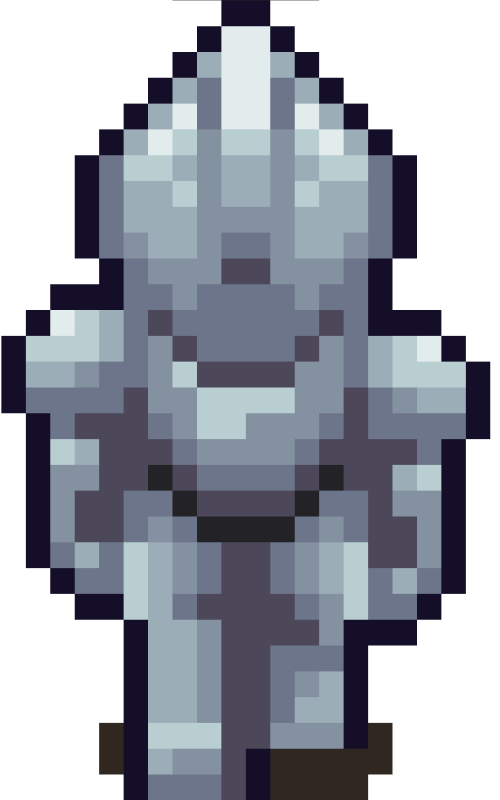
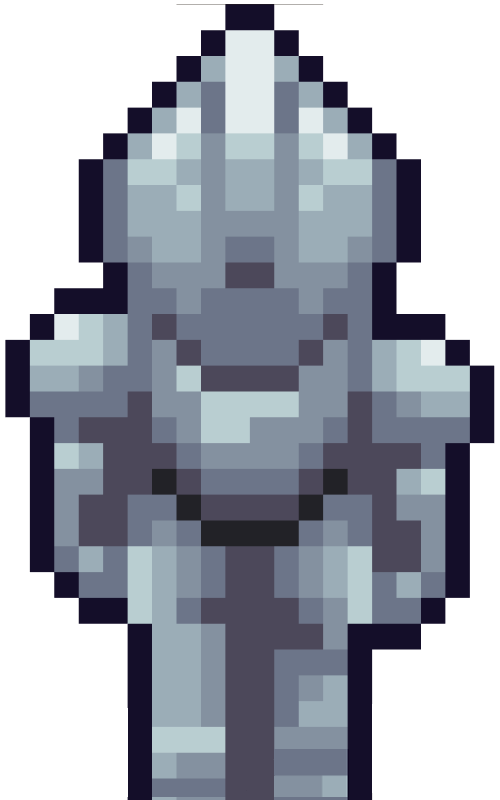
player movement update & new assets

Changed region(s): [[0.0, 0.0, 0.99, 1.0]]

diff --git a/src/world/world.ts b/src/world/world.ts
@@ -62,6 +62,14 @@ export abstract class WorldManager {
                 asset: AssetManager.rock,
                 drawRate: 0.02
             },
+            {
+                asset: AssetManager.bush,
+                drawRate: 0.01
+            },
+            {
+                asset: AssetManager.brush,
+                drawRate: 0.01
+            },
                 /*
                 {
                     asset: AssetManager.grass,
@@ -270,7 +278,9 @@ export abstract class WorldManager {
             return true;
         }
 
-        const obj1SafeZone = asset[safeZoneProp] / 2;
+        const obj1Scale = height / asset.height;
+
+        const obj1SafeZone = (asset[safeZoneProp] / 2) * obj1Scale;
         const obj1X = x;
         let obj1Y = y;
 
@@ -288,6 +298,8 @@ export abstract class WorldManager {
                 return;
             }
 
+            const obj2Scale = item.sprite.height / item.asset.height;
+
             const obj2X = item.sprite.x;
             let obj2Y = item.sprite.y;
 
@@ -295,7 +307,7 @@ export abstract class WorldManager {
                 obj2Y = item.sprite.y - item.sprite.height / 2;
             }
 
-            const obj2SafeZone = item.asset[safeZoneProp] / 2;
+            const obj2SafeZone = (item.asset[safeZoneProp] / 2) * obj2Scale;
             const A = obj1X - obj1SafeZone;
             const B = obj1X + obj1SafeZone;
             const C = obj2X - obj2SafeZone;
@@ -325,9 +337,9 @@ export abstract class WorldManager {
 
         const asset = AssetManager.knight;
 
-        const obj1SafeZone = asset.collisionZone as number / 2;
-        const obj1X = x;
-        const obj1Y = y;
+        const playerSafeZone = asset.collisionZone as number / 2;
+        const playerX = x;
+        const playerY = y;
 
         this.loadedChuncksItems[this.currentChunk].forEach((item) => {
             if (!res) {
@@ -338,23 +350,25 @@ export abstract class WorldManager {
                 return;
             }
 
-            const obj2X = item.sprite.x;
-            const obj2Y = item.sprite.y;
+            const objX = item.sprite.x;
+            const objY = item.sprite.y;
 
-            const obj2SafeZone = (item.asset.collisionZone ?? item.asset.groundSafeZone) / 2;
-            const A = obj1X - obj1SafeZone;
-            const B = obj1X + obj1SafeZone;
-            const C = obj2X - obj2SafeZone;
-            const D = obj2X + obj2SafeZone;
+            const objSafeZoneX = (item.asset.collisionZone ?? item.asset.groundSafeZone) / 2;
+            const objSafeZoneY = (item.asset.collisionZoneY ?? 2 * objSafeZoneX) / 2;
+
+            const A = playerX - playerSafeZone;
+            const B = playerX + playerSafeZone;
+            const C = objX - objSafeZoneX;
+            const D = objX + objSafeZoneX;
 
             if (B <= C || D <= A) {
                 return;
             }
 
-            const E = obj1Y - 2 * obj1SafeZone;
-            const F = obj1Y;
-            const G = obj2Y - 2 * obj2SafeZone;
-            const H = obj2Y;
+            const E = playerY - 2 * playerSafeZone;
+            const F = playerY;
+            const G = objY - 2 * objSafeZoneY;
+            const H = objY;
 
             if (F <= G || H <= E) {
                 return;

diff --git a/src/game/player-movements.ts b/src/game/player-movements.ts
@@ -1,3 +1,4 @@
+import { debounceTime, Subject } from "rxjs";
 import { PlayerManager } from "../world/player.js";
 import { WorldManager } from "../world/world.js";
 import { PlayerInputs } from "./player-inputs.js";
@@ -7,10 +8,23 @@ export abstract class PlayerMovements {
     private static diagonalRatio: number = Math.sqrt(2);
     private static moveSpeed: number = 256; // px per second
 
+    private static totalDistance: number = 0;
+
+    private static resetPlayerAnimation$ = new Subject<void>();
+
+    static init() {
+        this.resetPlayerAnimation$.pipe(debounceTime(100)).subscribe(() => {
+            this.totalDistance = 0;
+            PlayerManager.resetPlayerAnimation();
+        })
+    }
+
     static updatePlayerPosition(time: number) {
         if (!PlayerInputs.upArrowPressed && !PlayerInputs.downArrowPressed && !PlayerInputs.leftArrowPressed && !PlayerInputs.rightArrowPressed) {
             return;
         }
+
+        this.resetPlayerAnimation$.next();
 
         const distance = this.moveSpeed * (time / 1000);
 
@@ -54,23 +68,26 @@ export abstract class PlayerMovements {
         }
 
         let direction: 'front' | 'back' | 'left' | 'right';
-        if (newX > currentX) {
-            direction = 'left';
-        }
-        else if (newX < currentX) {
-            direction = 'right';
-        }
-        else if (newY > currentY) {
+        if (newY > currentY) {
             direction = 'front';
         }
         else if (newY < currentY) {
             direction = 'back';
         }
+        else if (newX > currentX) {
+            direction = 'left';
+        }
+        else if (newX < currentX) {
+            direction = 'right';
+        }
         else {
             return;
         }
 
+        this.totalDistance += distance;
+
         PlayerManager.setPlayerTexture(direction);
+        PlayerManager.setPlayerAnimation(this.totalDistance);
         PlayerManager.setPlayerPosition(newX, newY);
         WorldManager.setWorldPosition(-newX, -newY, newY);
     }

diff --git a/src/world/assets.ts b/src/world/assets.ts
@@ -11,6 +11,7 @@ export interface GGAsset {
     safeZone: number;
     groundSafeZone: number;
     collisionZone?: number;
+    collisionZoneY?: number;
     level: AssetLevel;
     displacementRatio: number;
     sizeRatio: number;
@@ -22,6 +23,8 @@ export abstract class AssetManager {
     static forestGround: GGAsset;;
     static grass: GGAsset;
     static rock: GGAsset;
+    static brush: GGAsset;
+    static bush: GGAsset;
 
     static knightTextures: { front: Texture; back: Texture; side: Texture; };
 
@@ -46,7 +49,9 @@ export abstract class AssetManager {
             height: 280,
             width: 250,
             safeZone: 250,
-            groundSafeZone: 50,
+            groundSafeZone: 100,
+            collisionZone: 100,
+            collisionZoneY: 25,
             displacementRatio: 0.2,
             sizeRatio: 0.4,
             level: AssetLevel.player
@@ -78,6 +83,35 @@ export abstract class AssetManager {
             sizeRatio: 0.5,
             level: AssetLevel.ground
         }
+
+        const bushAsset = await Assets.load('./bush.png');
+        this.bush = {
+            name: 'bush',
+            texture: bushAsset,
+            height: 75,
+            width: 75,
+            safeZone: 75,
+            groundSafeZone: 75,
+            collisionZone: 0,
+            displacementRatio: 0.5,
+            sizeRatio: 0.7,
+            level: AssetLevel.player
+        }
+
+        const brushAsset = await Assets.load('./brush.png');
+        this.brush = {
+            name: 'brush',
+            texture: brushAsset,
+            height: 70,
+            width: 70,
+            safeZone: 70,
+            groundSafeZone: 70,
+            collisionZone: 0,
+            displacementRatio: 0.2,
+            sizeRatio: 0.5,
+            level: AssetLevel.player
+        }
+
 
         const knightFrontTxtr = await Assets.load('./knight/front.png');
         const knightBackTxtr = await Assets.load('./knight/back.png');

diff --git a/src/world/player.ts b/src/world/player.ts
@@ -1,6 +1,7 @@
 import { Container, Sprite } from "pixi.js";
 import { AssetManager } from "./assets.js";
 import { WorldManager } from "./world.js";
+import { Anim } from "../utils/anim.js";
 
 export abstract class PlayerManager {
     static playerContainer: Container;
@@ -13,12 +14,13 @@ export abstract class PlayerManager {
     static playerX: number = 0;
     static playerY: number = 0;
 
+    private static basePlayerScale = 1;
+
     static createPlayer() {
         this.playerContainer = new Container();
         const parentContainer = WorldManager.worldContainer;
         this.absDefaultPlayerX = parentContainer.width / 2;
         this.absDefaultPlayerY = parentContainer.height / 2;
-        console.log(this.absDefaultPlayerX, this.absDefaultPlayerY);
         this.playerContainer.x = this.absDefaultPlayerX;
         this.playerContainer.y = this.absDefaultPlayerY;
         this.playerContainer.height = AssetManager.knight.width as number;
@@ -36,6 +38,7 @@ export abstract class PlayerManager {
         playerSprite.x = 0;
         playerSprite.y = 0;
         this.playerSprite = this.playerContainer.addChild(playerSprite);
+        this.basePlayerScale = this.playerSprite.scale.y;
     }
 
     static setPlayerPosition(x: number, y: number) {
@@ -67,5 +70,17 @@ export abstract class PlayerManager {
             texture = direction;
         }
         this.playerSprite.texture = AssetManager.knightTextures[texture];
+    }
+
+
+    static setPlayerAnimation(distance: number) {
+        const factor = 1 + Math.sin(distance / 50) / 25;
+        this.playerSprite.scale.y = this.basePlayerScale * factor;
+    }
+
+    static resetPlayerAnimation() {
+        Anim.tween(this.playerSprite.scale.y, this.basePlayerScale, 100).subscribe(v => {
+            this.playerSprite.scale.y = v;
+        });
     }
 }

diff --git a/src/utils/anim.ts b/src/utils/anim.ts
@@ -1,0 +1,17 @@
+import { animationFrames, endWith, map, takeWhile } from "rxjs";
+
+export abstract class Anim {
+
+    static tween(start: number, end: number, duration: number) {
+        const diff = end - start;
+        return animationFrames().pipe(
+            map(({ elapsed }) => elapsed / duration),
+            takeWhile(v => v < 1),
+            endWith(1),
+            map(v => v * diff + start)
+        );
+    }
+}
+
+
+

diff --git a/src/main.ts b/src/main.ts
@@ -18,6 +18,7 @@ import { Random } from './utils/random.js';
     WorldManager.createWorld(app);
     PlayerManager.createPlayer();
     PlayerInputs.init();
+    PlayerMovements.init();
 
     WorldManager.generateWorld();
     app.ticker.add((time) => {
